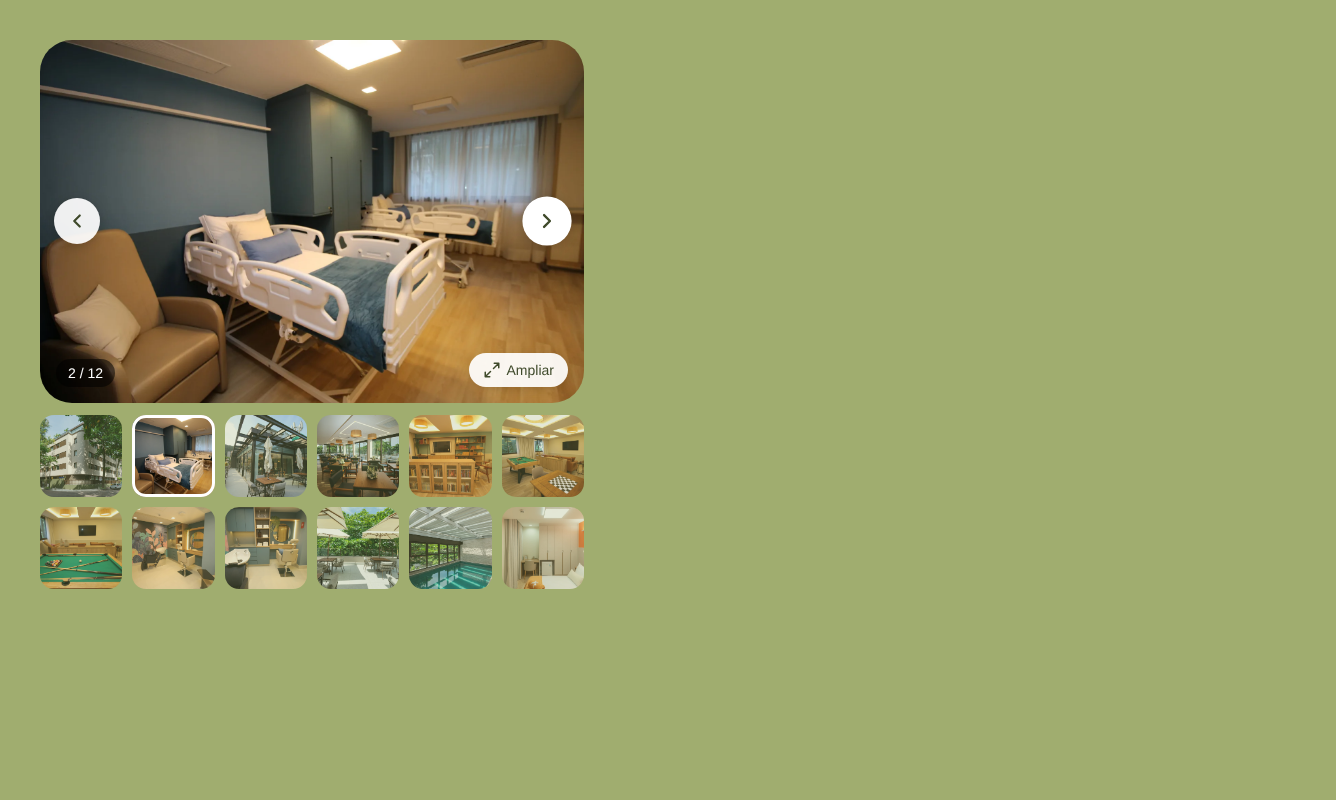
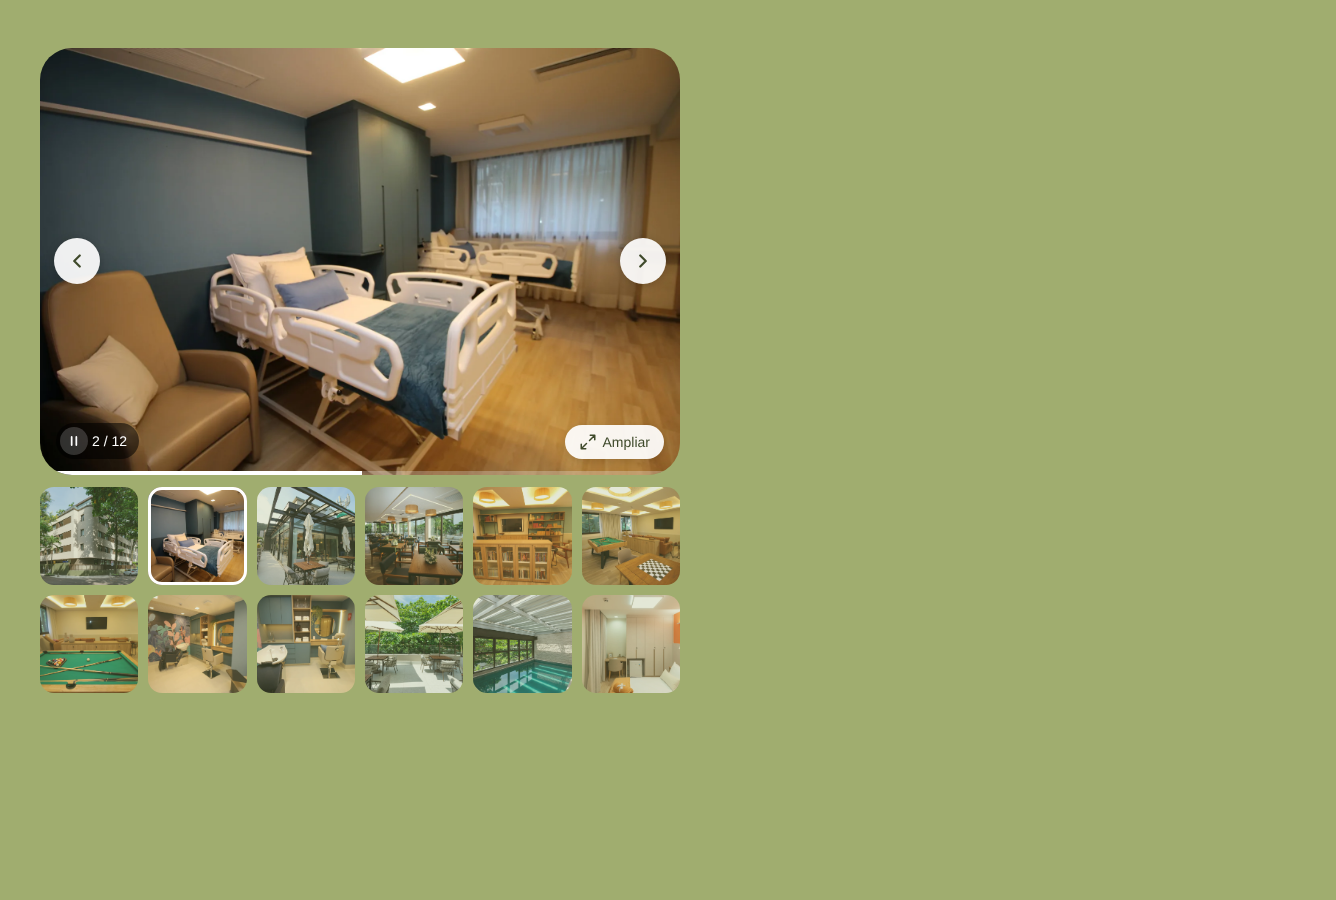
Galeria RJZ: autoplay de 5s com barra de progresso e botão pausar, galeria maior (640px) e margem vertical
Claude-Session: https://claude.ai/code/session_011QroMo1Ac5QExKCQwNuH4r

Changed region(s): [[0.0307, 0.0312, 0.5217, 0.7812], [0.0307, 0.0312, 0.1841, 0.0625]]

diff --git a/residencial-rjz/galeria-ambientes/widget-galeria.html b/residencial-rjz/galeria-ambientes/widget-galeria.html
@@ -10,7 +10,7 @@
   4. Para trocar/adicionar fotos, edite só a lista de <a class="rjz-gal__thumb"> abaixo
      (href = foto grande, src = miniatura). Contador, setas e lightbox se ajustam sozinhos.
 -->
-<div class="rjz-gal" data-rjz-gal>
+<div class="rjz-gal" data-rjz-gal data-autoplay="5000">
   <div class="rjz-gal__stage">
     <button type="button" class="rjz-gal__main" aria-label="Ampliar foto">
       <img class="rjz-gal__main-img" src="https://residencialseniorrjz.com.br/wp-content/uploads/2026/11/residencial-carrossel-01.webp" alt="Ambiente do Residencial Senior RJZ — foto 1" width="1600" height="1067" fetchpriority="high">
@@ -25,7 +25,14 @@
     <button type="button" class="rjz-gal__nav rjz-gal__nav--next" aria-label="Próxima foto">
       <svg viewBox="0 0 24 24" width="22" height="22"><path d="M9 6l6 6-6 6" fill="none" stroke="currentColor" stroke-width="2.4" stroke-linecap="round" stroke-linejoin="round"/></svg>
     </button>
-    <span class="rjz-gal__count" aria-live="polite">1 / 12</span>
+    <div class="rjz-gal__meta">
+      <button type="button" class="rjz-gal__play" aria-label="Pausar apresentação" aria-pressed="false">
+        <svg class="rjz-gal__ico-pause" viewBox="0 0 24 24" width="14" height="14"><path d="M8 5v14M16 5v14" fill="none" stroke="currentColor" stroke-width="3" stroke-linecap="round"/></svg>
+        <svg class="rjz-gal__ico-play" viewBox="0 0 24 24" width="14" height="14"><path d="M7 4.5v15l12-7.5z" fill="currentColor"/></svg>
+      </button>
+      <span class="rjz-gal__count" aria-live="off">1 / 12</span>
+    </div>
+    <span class="rjz-gal__progress" aria-hidden="true"><span class="rjz-gal__progress-bar"></span></span>
   </div>
 
   <div class="rjz-gal__thumbs" role="list">
@@ -68,8 +75,8 @@
   --rjz-btn-bg:rgba(255,255,255,.92);
   --rjz-btn-fg:#3f4a2b;
   width:100%;
-  max-width:544px;
-  margin:0 auto;
+  max-width:640px;
+  margin:48px auto;
   display:flex;
   flex-direction:column;
   gap:var(--rjz-gap);
@@ -90,11 +97,22 @@
   padding:8px 14px;border-radius:999px;background:var(--rjz-btn-bg);color:var(--rjz-btn-fg);
   font-size:14px;font-weight:500;line-height:1;box-shadow:0 2px 10px rgba(0,0,0,.15);pointer-events:none
 }
-.rjz-gal__count{
-  position:absolute;left:16px;bottom:16px;padding:7px 12px;border-radius:999px;
-  background:rgba(0,0,0,.55);color:#fff;font-size:14px;font-weight:500;line-height:1;pointer-events:none;
-  font-variant-numeric:tabular-nums
+.rjz-gal__meta{
+  position:absolute;left:16px;bottom:16px;display:flex;align-items:center;gap:4px;padding:4px 12px 4px 4px;
+  border-radius:999px;background:rgba(0,0,0,.55);color:#fff
 }
+.rjz-gal__count{font-size:14px;font-weight:500;line-height:1;font-variant-numeric:tabular-nums}
+.rjz-gal__play{
+  all:unset;width:28px;height:28px;border-radius:50%;display:grid;place-items:center;cursor:pointer;
+  background:rgba(255,255,255,.18);color:#fff;transition:background .15s ease
+}
+.rjz-gal__play:hover{background:rgba(255,255,255,.32)}
+.rjz-gal__play:focus-visible{outline:2px solid #fff;outline-offset:2px}
+.rjz-gal__ico-play{display:none}
+.rjz-gal.is-paused-user .rjz-gal__ico-play{display:block}
+.rjz-gal.is-paused-user .rjz-gal__ico-pause{display:none}
+.rjz-gal__progress{position:absolute;left:0;right:0;bottom:0;height:4px;background:rgba(255,255,255,.25);pointer-events:none}
+.rjz-gal__progress-bar{display:block;height:100%;width:100%;background:#fff;transform-origin:left;transform:scaleX(0)}
 .rjz-gal__nav{
   all:unset;position:absolute;top:50%;transform:translateY(-50%);
   width:46px;height:46px;border-radius:50%;display:grid;place-items:center;
@@ -151,7 +169,9 @@
   .rjz-gal__thumb{flex:0 0 22%;scroll-snap-align:start}
   .rjz-gal__nav{width:40px;height:40px}
   .rjz-gal__zoom{right:12px;bottom:12px;padding:7px 11px;font-size:13px}
-  .rjz-gal__count{left:12px;bottom:12px;font-size:13px}
+  .rjz-gal{margin:32px auto}
+  .rjz-gal__meta{left:12px;bottom:12px}
+  .rjz-gal__count{font-size:13px}
   .rjz-gal__lb-figure{padding:64px 8px 96px}
   .rjz-gal__lb-img{max-height:calc(100vh - 160px);max-height:calc(100dvh - 160px)}
   .rjz-gal__lb-prev,.rjz-gal__lb-next{top:auto;bottom:22px;transform:none}
@@ -175,6 +195,11 @@
     var lbImg   = root.querySelector('.rjz-gal__lb-img');
     var lbCount = root.querySelector('.rjz-gal__lb-count');
     var total   = thumbs.length, current = 0;
+    var delay   = parseInt(root.dataset.autoplay, 10) || 0;
+    var bar     = root.querySelector('.rjz-gal__progress-bar');
+    var playBtn = root.querySelector('.rjz-gal__play');
+    var reduced = window.matchMedia && window.matchMedia('(prefers-reduced-motion: reduce)').matches;
+    var timer = null, userPaused = reduced, hovering = false, visible = true;
 
     // O <dialog> fica preso dentro de containers com overflow/transform do Elementor;
     // movê-lo para o <body> garante que o lightbox cubra a tela inteira.
@@ -205,6 +230,39 @@
         strip.scrollTo({ left: t.offsetLeft - (strip.clientWidth - t.clientWidth) / 2, behavior: 'smooth' });
       }
       preload(current + 1); preload(current - 1);
+      restart();
+    }
+
+    // ---------- Autoplay ----------
+    // Passa sozinho a cada `delay` ms. Pausa com o mouse em cima, com o lightbox aberto,
+    // fora da tela ou com a aba oculta; volta sozinho depois. O botão pausar/continuar
+    // dá controle total (e começa pausado se o sistema pede "reduzir movimento").
+    function canRun(){ return delay && !userPaused && !hovering && visible && !lb.open && !document.hidden; }
+    function stopBar(){ bar.style.transition = 'none'; bar.style.transform = 'scaleX(0)'; }
+    function restart(){
+      clearTimeout(timer); timer = null; stopBar();
+      if(!canRun()) return;
+      void bar.offsetWidth; // reinicia a animação da barra
+      bar.style.transition = 'transform ' + delay + 'ms linear';
+      bar.style.transform = 'scaleX(1)';
+      timer = setTimeout(function(){ show(current + 1); }, delay);
+    }
+    function setUserPaused(p){
+      userPaused = p;
+      root.classList.toggle('is-paused-user', p);
+      playBtn.setAttribute('aria-pressed', p ? 'true' : 'false');
+      playBtn.setAttribute('aria-label', p ? 'Continuar apresentação' : 'Pausar apresentação');
+      restart();
+    }
+    if(!delay){ playBtn.hidden = true; root.querySelector('.rjz-gal__progress').hidden = true; }
+    playBtn.addEventListener('click', function(e){ e.stopPropagation(); setUserPaused(!userPaused); });
+    root.addEventListener('mouseenter', function(){ hovering = true; restart(); });
+    root.addEventListener('mouseleave', function(){ hovering = false; restart(); });
+    root.addEventListener('focusin', function(){ hovering = true; restart(); });
+    root.addEventListener('focusout', function(e){ if(!root.contains(e.relatedTarget)){ hovering = false; restart(); } });
+    document.addEventListener('visibilitychange', restart);
+    if('IntersectionObserver' in window){
+      new IntersectionObserver(function(es){ visible = es[0].isIntersecting; restart(); }, { threshold: 0.3 }).observe(root);
     }
 
     function openLb(){
@@ -213,9 +271,10 @@
       lbCount.textContent = (current + 1) + ' / ' + total;
       if(typeof lb.showModal === 'function') lb.showModal(); else lb.setAttribute('open', '');
       document.documentElement.style.overflow = 'hidden';
+      restart();
     }
     function closeLb(){ if(lb.open){ lb.close ? lb.close() : lb.removeAttribute('open'); } }
-    lb.addEventListener('close', function(){ document.documentElement.style.overflow = ''; });
+    lb.addEventListener('close', function(){ document.documentElement.style.overflow = ''; restart(); });
 
     thumbs.forEach(function(t, i){
       t.addEventListener('click', function(e){ e.preventDefault(); show(i); });
@@ -252,6 +311,7 @@
     swipe(root.querySelector('.rjz-gal__stage'));
     swipe(lb.querySelector('.rjz-gal__lb-figure'));
 
+    setUserPaused(userPaused);
     show(0);
   });
 })();
